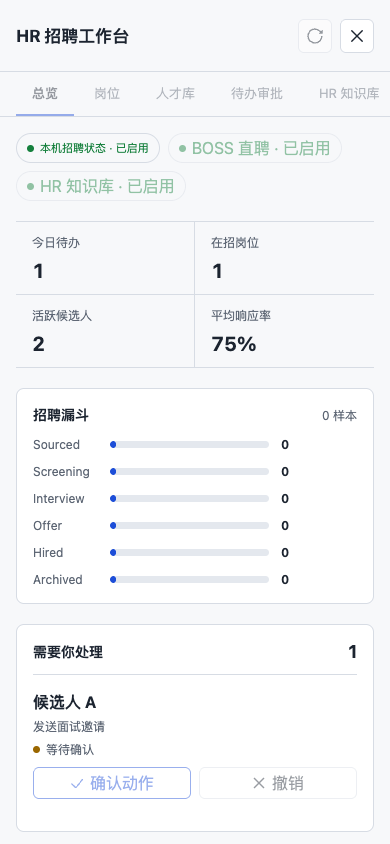
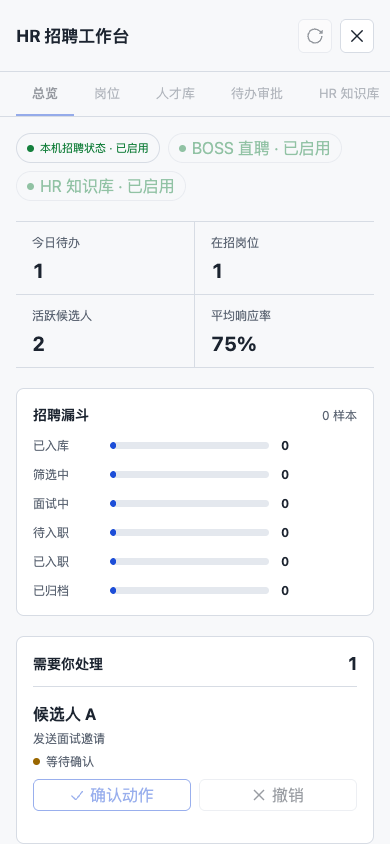
fix: 本地化招聘业务状态
将招聘阶段、岗位状态、用工类型和候选反馈统一映射为中英文用户文案，避免界面直接展示 API 枚举。更新移动端招聘证据截图。

diff --git a/.ci/dsh-yootun-recruiter/lib/client.js b/.ci/dsh-yootun-recruiter/lib/client.js
@@ -22,7 +22,8 @@ window.__ModuleLoader__.load({
         loginTitle: '使用官方页面扫码登录', loginBody: '在内置窗口中自行登录并操作官方页面；Yootun-Agent 不读取页面会话、登录凭证和二维码。', openBoss: '打开 BOSS 直聘', openInApp: '在内置浏览器打开', openExternal: '在系统浏览器打开', webUseHint: '登录与操作都在官方页面完成；招聘数据通过 Agent 对话沉淀，不会自动抓取页面。', syncNow: '开始同步', syncHint: '同步岗位、候选人阶段与面试记录；敏感信息不会进入知识库。', lastSync: '最近同步', syncRecords: '同步记录', syncWaiting: '等待用户完成官方登录',
         knowledgeTitle: '企业 HR 知识空间', knowledgeBody: '每个企业统一沉淀岗位画像、面试反馈、招聘复盘和流程规范，不需要单独配置空间。', knowledgeSpaces: '企业 HR 空间', knowledgeDocs: '文档', knowledgeMemories: '经验记忆', knowledgePending: '待确认沉淀', knowledgeAction: '沉淀到 HR 知识空间', knowledgeOpen: '打开企业知识',
         emptyActions: '暂无待确认动作', approve: '确认动作', execute: '执行动作', dismiss: '撤销', status: '状态', waiting: '等待确认', confirmed: '已确认，等待适配器', succeeded: '适配器已完成', failed: '适配器失败', requiresLogin: '需要重新登录', dismissed: '已撤销', saveHint: '岗位与候选人分析通过 Agent 对话接口保存。',
-        stage: '阶段', evidence: '岗位相关证据', concerns: '待核实问题', score: '匹配度', days: '天',
+        stage: '阶段', stageSourced: '已入库', stageScreening: '筛选中', stageInterview: '面试中', stageOffer: '待入职', stageHired: '已入职', stageArchived: '已归档', evidence: '岗位相关证据', concerns: '待核实问题', score: '匹配度', days: '天',
+        roleDraft: '草稿', roleActive: '招聘中', rolePaused: '已暂停', roleClosed: '已关闭', employmentFullTime: '全职', employmentPartTime: '兼职', employmentContract: '合同制', employmentIntern: '实习', feedbackNone: '暂无反馈', feedbackPending: '待反馈', feedbackCompleted: '已反馈', unknown: '未知',
         srcLocal: '本机招聘状态', srcBoss: 'BOSS 直聘', srcKnowledge: 'HR 知识库', bossConnected: 'BOSS 直聘已连接',
         avgScreening: '平均筛选时长', offerConversion: 'Offer 转化', insightFallback: '样本不足时不输出确定性结论。', stale: '天无更新',
         preview: '预览同步范围', previewTitle: '同步预览', previewReady: '官方适配器可用，确认后即可同步', previewUnavailable: '官方适配器未配置，暂不能同步', previewFields: '同步字段', previewIncremental: '增量同步', previewFirst: '首次全量同步', conflictsKept: '本地已确认记录保留',
@@ -36,7 +37,8 @@ window.__ModuleLoader__.load({
         loginTitle: 'Scan on the official login page', loginBody: 'Log in and operate the official pages inside the built-in window; Yootun-Agent never reads the page session, credentials, or QR code.', openBoss: 'Open BOSS Zhipin', openInApp: 'Open in app browser', openExternal: 'Open in system browser', webUseHint: 'Login and actions happen on the official pages; recruiting data is captured through Agent conversations, never by scraping.', syncNow: 'Start sync', syncHint: 'Sync roles, candidate stages, and interview notes. Sensitive data never enters the knowledge base.', lastSync: 'Last sync', syncRecords: 'Sync records', syncWaiting: 'Complete login on the official page',
         knowledgeTitle: 'Enterprise HR knowledge space', knowledgeBody: 'Each enterprise gets one managed space for role profiles, interview feedback, hiring retrospectives, and process playbooks.', knowledgeSpaces: 'Enterprise HR space', knowledgeDocs: 'Documents', knowledgeMemories: 'Memories', knowledgePending: 'Pending curation', knowledgeAction: 'Save to HR space', knowledgeOpen: 'Open enterprise knowledge',
         emptyActions: 'No actions awaiting approval', approve: 'Approve action', execute: 'Execute action', dismiss: 'Dismiss', status: 'Status', waiting: 'Awaiting approval', confirmed: 'Approved, adapter pending', succeeded: 'Adapter completed', failed: 'Adapter failed', requiresLogin: 'Login required', dismissed: 'Dismissed', saveHint: 'Save roles and candidate analysis through the Agent conversation interface.',
-        stage: 'Stage', evidence: 'Role-related evidence', concerns: 'Open questions', score: 'Match score', days: 'days',
+        stage: 'Stage', stageSourced: 'Sourced', stageScreening: 'Screening', stageInterview: 'Interview', stageOffer: 'Offer', stageHired: 'Hired', stageArchived: 'Archived', evidence: 'Role-related evidence', concerns: 'Open questions', score: 'Match score', days: 'days',
+        roleDraft: 'Draft', roleActive: 'Active', rolePaused: 'Paused', roleClosed: 'Closed', employmentFullTime: 'Full-time', employmentPartTime: 'Part-time', employmentContract: 'Contract', employmentIntern: 'Internship', feedbackNone: 'No feedback', feedbackPending: 'Feedback pending', feedbackCompleted: 'Feedback received', unknown: 'Unknown',
         srcLocal: 'Local recruiting state', srcBoss: 'BOSS Zhipin', srcKnowledge: 'HR knowledge', bossConnected: 'BOSS Zhipin connected',
         avgScreening: 'Avg. screening days', offerConversion: 'Offer conversion', insightFallback: 'No firm conclusion until the sample is sufficient.', stale: 'days without updates',
         preview: 'Preview sync scope', previewTitle: 'Sync preview', previewReady: 'Official adapter ready; confirm to sync', previewUnavailable: 'Official adapter not configured; sync unavailable', previewFields: 'Synced fields', previewIncremental: 'Incremental sync', previewFirst: 'First full sync', conflictsKept: 'locally confirmed kept',
@@ -59,6 +61,12 @@ window.__ModuleLoader__.load({
     function list(value) { return Array.isArray(value) ? value.filter(item => typeof item === 'string').slice(0, 8) : [] }
     function sourceState(value) { return ['ready', 'empty', 'unavailable', 'error'].includes(value) ? value : 'unavailable' }
     function statusText(status, t) { return status === 'awaiting_confirmation' ? t('waiting') : status === 'confirmed_pending_adapter' ? t('confirmed') : status === 'succeeded' ? t('succeeded') : status === 'failed' ? t('failed') : status === 'requires_user_login' ? t('requiresLogin') : t('dismissed') }
+    function enumKey(value) { return String(value || '').trim().toLowerCase().replace(/[^a-z0-9]+/g, '_') }
+    function enumText(value, labels, t) { const key = labels[enumKey(value)]; return key ? t(key) : t('unknown') }
+    function stageText(value, t) { return enumText(value, { sourced: 'stageSourced', screening: 'stageScreening', interview: 'stageInterview', offer: 'stageOffer', hired: 'stageHired', archived: 'stageArchived' }, t) }
+    function roleStatusText(value, t) { return enumText(value, { draft: 'roleDraft', active: 'roleActive', paused: 'rolePaused', closed: 'roleClosed' }, t) }
+    function employmentText(value, t) { return enumText(value, { full_time: 'employmentFullTime', fulltime: 'employmentFullTime', part_time: 'employmentPartTime', parttime: 'employmentPartTime', contract: 'employmentContract', contractor: 'employmentContract', intern: 'employmentIntern', internship: 'employmentIntern' }, t) }
+    function feedbackText(value, t) { return enumText(value, { none: 'feedbackNone', pending: 'feedbackPending', awaiting_feedback: 'feedbackPending', completed: 'feedbackCompleted', received: 'feedbackCompleted' }, t) }
     function SourceBadge({ label, state, t, onClick, disabled }) {
       const status = sourceState(state)
       const labelText = status === 'ready' ? t('ready') : status === 'empty' ? t('empty') : status === 'error' ? t('error') : t('unavailable')
@@ -80,7 +88,7 @@ window.__ModuleLoader__.load({
         ),
         h('div', { className: 'yr-funnel' }, rows.map((item, index) =>
           h('div', { className: 'yr-funnel-row', key: item.stage },
-            h('span', null, item.stage),
+            h('span', null, stageText(item.stage, t)),
             h('div', { className: 'yr-bar-track' }, h('span', { className: 'yr-bar', style: { width: `${Math.max(4, number(item.count) / max * 100)}%` } })),
             h('strong', null, String(number(item.count))),
             index > 0 && number(rows[index - 1].count) > 0 ? h('small', null, `${Math.round(number(item.count) / number(rows[index - 1].count) * 100)}%`) : null,
@@ -119,7 +127,7 @@ window.__ModuleLoader__.load({
         h('div', { className: 'yr-dashboard-grid' },
           h('section', { className: 'yr-panel' },
             h('div', { className: 'yr-panel-title' }, h('h2', null, t('roleHealth')), h('span', { className: 'yr-muted' }, String(roles.length))),
-            roles.length ? roles.map(role => { const days = staleDays(role); const stale = days !== null && days >= 14; return h('div', { className: 'yr-health-row', key: role.id }, h('div', null, h('strong', null, role.title), h('span', null, `${role.department} · ${role.location}`)), h('span', { className: stale ? 'yr-health-warn' : 'yr-health-good' }, stale ? `${days} ${t('stale')}` : role.status)) }) : h('div', { className: 'yr-empty yr-empty-compact', role: 'status' }, t('noData')),
+            roles.length ? roles.map(role => { const days = staleDays(role); const stale = days !== null && days >= 14; return h('div', { className: 'yr-health-row', key: role.id }, h('div', null, h('strong', null, role.title), h('span', null, `${role.department} · ${role.location}`)), h('span', { className: stale ? 'yr-health-warn' : 'yr-health-good' }, stale ? `${days} ${t('stale')}` : roleStatusText(role.status, t))) }) : h('div', { className: 'yr-empty yr-empty-compact', role: 'status' }, t('noData')),
           ),
           h('section', { className: 'yr-panel yr-knowledge-teaser' },
             h('div', { className: 'yr-panel-title' }, h('h2', null, t('knowledgeTitle')), h(SourceBadge, { label: 'HR', state: knowledge.status, t, disabled: busy, onClick: () => onNavigate?.('knowledge') })),
@@ -165,7 +173,7 @@ window.__ModuleLoader__.load({
             h('div', { className: 'yr-intake-editor' }, h('label', { htmlFor: 'yr-role-brief' }, t('pasteRequirement')), h('textarea', { id: 'yr-role-brief', className: 'yr-intake-textarea', value: input, disabled: busy, onChange: event => setInput(event.target.value), placeholder: t('addRole') }), h('div', { className: 'yr-intake-footer' }, h('span', { className: 'yr-muted' }, message), h('button', { type: 'button', className: 'yr-primary', disabled: busy, onClick: () => void generate() }, h(IconDataOutline16, { size: 14 }), t('generateDraft')))),
           ),
         ),
-        roles.length ? h('div', { className: 'yr-list' }, roles.map(role => h('article', { className: 'yr-card', key: role.id }, h('div', { className: 'yr-card-head' }, h('div', null, h('strong', null, role.title), h('span', { className: 'yr-muted' }, `${role.department} · ${role.location}`)), h('span', { className: `yr-pill yr-pill-${role.status}` }, role.status)), h('div', { className: 'yr-role-meta' }, h('span', null, `${role.headcount} HC`), h('span', null, role.employmentType), role.salaryMin || role.salaryMax ? h('span', null, `${role.salaryMin || '—'}-${role.salaryMax || '—'}`) : null), h('p', null, list(role.requiredSkills).join(' · ')), h('small', { className: 'yr-muted' }, `${t('updated')}: ${role.updatedAt || '—'}`)))) : h('section', { className: 'yr-empty yr-empty-main', role: 'status' }, h('div', { className: 'yr-empty-icon' }, h(IconDataOutline16, { size: 20 })), h('strong', null, t('noRolesCta')), h('span', null, t('editAfterGenerate'))),
+        roles.length ? h('div', { className: 'yr-list' }, roles.map(role => h('article', { className: 'yr-card', key: role.id }, h('div', { className: 'yr-card-head' }, h('div', null, h('strong', null, role.title), h('span', { className: 'yr-muted' }, `${role.department} · ${role.location}`)), h('span', { className: `yr-pill yr-pill-${role.status}` }, roleStatusText(role.status, t))), h('div', { className: 'yr-role-meta' }, h('span', null, `${role.headcount} HC`), h('span', null, employmentText(role.employmentType, t)), role.salaryMin || role.salaryMax ? h('span', null, `${role.salaryMin || '—'}-${role.salaryMax || '—'}`) : null), h('p', null, list(role.requiredSkills).join(' · ')), h('small', { className: 'yr-muted' }, `${t('updated')}: ${role.updatedAt || '—'}`)))) : h('section', { className: 'yr-empty yr-empty-main', role: 'status' }, h('div', { className: 'yr-empty-icon' }, h(IconDataOutline16, { size: 20 })), h('strong', null, t('noRolesCta')), h('span', null, t('editAfterGenerate'))),
       )
     }
     function Candidates({ data, t, onNavigate, busy }) {
@@ -176,9 +184,9 @@ window.__ModuleLoader__.load({
       const counts = STAGES.map(item => ({ stage: item, count: candidates.filter(candidate => candidate.stage === item).length })).filter(item => item.count > 0)
       return h('div', { className: 'yr-page' },
         h('div', { className: 'yr-heading yr-workbench-toolbar' }, h('div', null, h('h2', null, t('candidates')), h('p', { className: 'yr-subheading' }, t('evidence'))), h('button', { type: 'button', className: 'yr-secondary', disabled: busy, onClick: () => onNavigate?.('boss') }, h(IconRefreshOutline16, { size: 14 }), t('boss'))),
-        h('div', { className: 'yr-pipeline-summary' }, counts.length ? counts.map(item => h('div', { className: 'yr-summary-item', key: item.stage }, h('span', { className: 'yr-summary-label' }, item.stage), h('strong', { className: 'yr-summary-value' }, String(item.count)))) : h('div', { className: 'yr-summary-item' }, h('span', { className: 'yr-summary-label' }, t('candidates')), h('strong', { className: 'yr-summary-value' }, '0'))),
-        h('div', { className: 'yr-filter-bar' }, h('input', { className: 'yr-filter', value: query, disabled: busy, onChange: event => setQuery(event.target.value), placeholder: t('candidates'), 'aria-label': t('candidates') }), h('select', { className: 'yr-filter', value: stage, disabled: busy, onChange: event => setStage(event.target.value), 'aria-label': t('stage') }, h('option', { value: 'all' }, t('stage')), STAGES.map(item => h('option', { value: item, key: item }, item)))),
-        filtered.length ? h('div', { className: 'yr-pipeline' }, STAGES.filter(item => filtered.some(candidate => candidate.stage === item)).map(item => h('section', { className: 'yr-stage', key: item }, h('div', { className: 'yr-stage-title' }, h('strong', null, item), h('span', null, String(filtered.filter(candidate => candidate.stage === item).length))), filtered.filter(candidate => candidate.stage === item).map(candidate => h('article', { className: 'yr-card yr-candidate', key: candidate.id }, h('div', { className: 'yr-card-head' }, h('strong', null, candidate.displayName), candidate.matchScore === undefined ? null : h('span', { className: 'yr-score' }, `${candidate.matchScore}`)), h('p', null, list(candidate.evidence).join(' · ') || t('empty')), h('p', { className: 'yr-muted' }, `${t('concerns')}: ${list(candidate.concerns).join(' · ') || '—'}`), h('small', { className: 'yr-muted' }, `${t('status')}: ${candidate.feedbackStatus || 'none'}`)))))) : h('section', { className: 'yr-empty yr-empty-main', role: 'status' }, h('div', { className: 'yr-empty-icon' }, h(IconUserOutline16, { size: 20 })), h('strong', null, t('noData')), h('span', null, t('syncHint')), h('button', { type: 'button', className: 'yr-primary yr-empty-action', disabled: busy, onClick: () => onNavigate?.('boss') }, h(IconLinkOutline16, { size: 14 }), t('boss'))),
+        h('div', { className: 'yr-pipeline-summary' }, counts.length ? counts.map(item => h('div', { className: 'yr-summary-item', key: item.stage }, h('span', { className: 'yr-summary-label' }, stageText(item.stage, t)), h('strong', { className: 'yr-summary-value' }, String(item.count)))) : h('div', { className: 'yr-summary-item' }, h('span', { className: 'yr-summary-label' }, t('candidates')), h('strong', { className: 'yr-summary-value' }, '0'))),
+        h('div', { className: 'yr-filter-bar' }, h('input', { className: 'yr-filter', value: query, disabled: busy, onChange: event => setQuery(event.target.value), placeholder: t('candidates'), 'aria-label': t('candidates') }), h('select', { className: 'yr-filter', value: stage, disabled: busy, onChange: event => setStage(event.target.value), 'aria-label': t('stage') }, h('option', { value: 'all' }, t('stage')), STAGES.map(item => h('option', { value: item, key: item }, stageText(item, t))))),
+        filtered.length ? h('div', { className: 'yr-pipeline' }, STAGES.filter(item => filtered.some(candidate => candidate.stage === item)).map(item => h('section', { className: 'yr-stage', key: item }, h('div', { className: 'yr-stage-title' }, h('strong', null, stageText(item, t)), h('span', null, String(filtered.filter(candidate => candidate.stage === item).length))), filtered.filter(candidate => candidate.stage === item).map(candidate => h('article', { className: 'yr-card yr-candidate', key: candidate.id }, h('div', { className: 'yr-card-head' }, h('strong', null, candidate.displayName), candidate.matchScore === undefined ? null : h('span', { className: 'yr-score' }, `${candidate.matchScore}`)), h('p', null, list(candidate.evidence).join(' · ') || t('empty')), h('p', { className: 'yr-muted' }, `${t('concerns')}: ${list(candidate.concerns).join(' · ') || '—'}`), h('small', { className: 'yr-muted' }, `${t('status')}: ${feedbackText(candidate.feedbackStatus || 'none', t)}`)))))) : h('section', { className: 'yr-empty yr-empty-main', role: 'status' }, h('div', { className: 'yr-empty-icon' }, h(IconUserOutline16, { size: 20 })), h('strong', null, t('noData')), h('span', null, t('syncHint')), h('button', { type: 'button', className: 'yr-primary yr-empty-action', disabled: busy, onClick: () => onNavigate?.('boss') }, h(IconLinkOutline16, { size: 14 }), t('boss'))),
       )
     }
     function Actions({ data, t, onUpdate, busy }) { const actions = data.actions || []; return h('div', { className: 'yr-page' }, h('div', { className: 'yr-heading' }, h('div', null, h('h2', null, t('actions')), h('p', { className: 'yr-subheading' }, t('pendingConfirmation'))), h('span', { className: 'yr-muted' }, String(actions.length))), actions.length ? h('div', { className: 'yr-list' }, actions.map(item => h(ActionRow, { key: item.id, item, t, onUpdate, busy }))) : h('div', { className: 'yr-empty', role: 'status' }, t('emptyActions'))) }

diff --git a/.ci/dsh-yootun-recruiter/src/client.js b/.ci/dsh-yootun-recruiter/src/client.js
@@ -17,7 +17,8 @@ const copy = {
     loginTitle: '使用官方页面扫码登录', loginBody: '在内置窗口中自行登录并操作官方页面；Yootun-Agent 不读取页面会话、登录凭证和二维码。', openBoss: '打开 BOSS 直聘', openInApp: '在内置浏览器打开', openExternal: '在系统浏览器打开', webUseHint: '登录与操作都在官方页面完成；招聘数据通过 Agent 对话沉淀，不会自动抓取页面。', syncNow: '开始同步', syncHint: '同步岗位、候选人阶段与面试记录；敏感信息不会进入知识库。', lastSync: '最近同步', syncRecords: '同步记录', syncWaiting: '等待用户完成官方登录',
     knowledgeTitle: '企业 HR 知识空间', knowledgeBody: '每个企业统一沉淀岗位画像、面试反馈、招聘复盘和流程规范，不需要单独配置空间。', knowledgeSpaces: '企业 HR 空间', knowledgeDocs: '文档', knowledgeMemories: '经验记忆', knowledgePending: '待确认沉淀', knowledgeAction: '沉淀到 HR 知识空间', knowledgeOpen: '打开企业知识',
     emptyActions: '暂无待确认动作', approve: '确认动作', execute: '执行动作', dismiss: '撤销', status: '状态', waiting: '等待确认', confirmed: '已确认，等待适配器', succeeded: '适配器已完成', failed: '适配器失败', requiresLogin: '需要重新登录', dismissed: '已撤销', saveHint: '岗位与候选人分析通过 Agent 对话接口保存。',
-    stage: '阶段', evidence: '岗位相关证据', concerns: '待核实问题', score: '匹配度', days: '天',
+    stage: '阶段', stageSourced: '已入库', stageScreening: '筛选中', stageInterview: '面试中', stageOffer: '待入职', stageHired: '已入职', stageArchived: '已归档', evidence: '岗位相关证据', concerns: '待核实问题', score: '匹配度', days: '天',
+    roleDraft: '草稿', roleActive: '招聘中', rolePaused: '已暂停', roleClosed: '已关闭', employmentFullTime: '全职', employmentPartTime: '兼职', employmentContract: '合同制', employmentIntern: '实习', feedbackNone: '暂无反馈', feedbackPending: '待反馈', feedbackCompleted: '已反馈', unknown: '未知',
     srcLocal: '本机招聘状态', srcBoss: 'BOSS 直聘', srcKnowledge: 'HR 知识库', bossConnected: 'BOSS 直聘已连接',
     avgScreening: '平均筛选时长', offerConversion: 'Offer 转化', insightFallback: '样本不足时不输出确定性结论。', stale: '天无更新',
     preview: '预览同步范围', previewTitle: '同步预览', previewReady: '官方适配器可用，确认后即可同步', previewUnavailable: '官方适配器未配置，暂不能同步', previewFields: '同步字段', previewIncremental: '增量同步', previewFirst: '首次全量同步', conflictsKept: '本地已确认记录保留',
@@ -31,7 +32,8 @@ const copy = {
     loginTitle: 'Scan on the official login page', loginBody: 'Log in and operate the official pages inside the built-in window; Yootun-Agent never reads the page session, credentials, or QR code.', openBoss: 'Open BOSS Zhipin', openInApp: 'Open in app browser', openExternal: 'Open in system browser', webUseHint: 'Login and actions happen on the official pages; recruiting data is captured through Agent conversations, never by scraping.', syncNow: 'Start sync', syncHint: 'Sync roles, candidate stages, and interview notes. Sensitive data never enters the knowledge base.', lastSync: 'Last sync', syncRecords: 'Sync records', syncWaiting: 'Complete login on the official page',
     knowledgeTitle: 'Enterprise HR knowledge space', knowledgeBody: 'Each enterprise gets one managed space for role profiles, interview feedback, hiring retrospectives, and process playbooks.', knowledgeSpaces: 'Enterprise HR space', knowledgeDocs: 'Documents', knowledgeMemories: 'Memories', knowledgePending: 'Pending curation', knowledgeAction: 'Save to HR space', knowledgeOpen: 'Open enterprise knowledge',
     emptyActions: 'No actions awaiting approval', approve: 'Approve action', execute: 'Execute action', dismiss: 'Dismiss', status: 'Status', waiting: 'Awaiting approval', confirmed: 'Approved, adapter pending', succeeded: 'Adapter completed', failed: 'Adapter failed', requiresLogin: 'Login required', dismissed: 'Dismissed', saveHint: 'Save roles and candidate analysis through the Agent conversation interface.',
-    stage: 'Stage', evidence: 'Role-related evidence', concerns: 'Open questions', score: 'Match score', days: 'days',
+    stage: 'Stage', stageSourced: 'Sourced', stageScreening: 'Screening', stageInterview: 'Interview', stageOffer: 'Offer', stageHired: 'Hired', stageArchived: 'Archived', evidence: 'Role-related evidence', concerns: 'Open questions', score: 'Match score', days: 'days',
+    roleDraft: 'Draft', roleActive: 'Active', rolePaused: 'Paused', roleClosed: 'Closed', employmentFullTime: 'Full-time', employmentPartTime: 'Part-time', employmentContract: 'Contract', employmentIntern: 'Internship', feedbackNone: 'No feedback', feedbackPending: 'Feedback pending', feedbackCompleted: 'Feedback received', unknown: 'Unknown',
     srcLocal: 'Local recruiting state', srcBoss: 'BOSS Zhipin', srcKnowledge: 'HR knowledge', bossConnected: 'BOSS Zhipin connected',
     avgScreening: 'Avg. screening days', offerConversion: 'Offer conversion', insightFallback: 'No firm conclusion until the sample is sufficient.', stale: 'days without updates',
     preview: 'Preview sync scope', previewTitle: 'Sync preview', previewReady: 'Official adapter ready; confirm to sync', previewUnavailable: 'Official adapter not configured; sync unavailable', previewFields: 'Synced fields', previewIncremental: 'Incremental sync', previewFirst: 'First full sync', conflictsKept: 'locally confirmed kept',
@@ -54,6 +56,12 @@ function number(value, fallback = 0) { return Number.isFinite(Number(value)) ? N
 function list(value) { return Array.isArray(value) ? value.filter(item => typeof item === 'string').slice(0, 8) : [] }
 function sourceState(value) { return ['ready', 'empty', 'unavailable', 'error'].includes(value) ? value : 'unavailable' }
 function statusText(status, t) { return status === 'awaiting_confirmation' ? t('waiting') : status === 'confirmed_pending_adapter' ? t('confirmed') : status === 'succeeded' ? t('succeeded') : status === 'failed' ? t('failed') : status === 'requires_user_login' ? t('requiresLogin') : t('dismissed') }
+function enumKey(value) { return String(value || '').trim().toLowerCase().replace(/[^a-z0-9]+/g, '_') }
+function enumText(value, labels, t) { const key = labels[enumKey(value)]; return key ? t(key) : t('unknown') }
+function stageText(value, t) { return enumText(value, { sourced: 'stageSourced', screening: 'stageScreening', interview: 'stageInterview', offer: 'stageOffer', hired: 'stageHired', archived: 'stageArchived' }, t) }
+function roleStatusText(value, t) { return enumText(value, { draft: 'roleDraft', active: 'roleActive', paused: 'rolePaused', closed: 'roleClosed' }, t) }
+function employmentText(value, t) { return enumText(value, { full_time: 'employmentFullTime', fulltime: 'employmentFullTime', part_time: 'employmentPartTime', parttime: 'employmentPartTime', contract: 'employmentContract', contractor: 'employmentContract', intern: 'employmentIntern', internship: 'employmentIntern' }, t) }
+function feedbackText(value, t) { return enumText(value, { none: 'feedbackNone', pending: 'feedbackPending', awaiting_feedback: 'feedbackPending', completed: 'feedbackCompleted', received: 'feedbackCompleted' }, t) }
 function SourceBadge({ label, state, t, onClick, disabled }) {
   const status = sourceState(state)
   const labelText = status === 'ready' ? t('ready') : status === 'empty' ? t('empty') : status === 'error' ? t('error') : t('unavailable')
@@ -75,7 +83,7 @@ function Funnel({ data, t }) {
     ),
     h('div', { className: 'yr-funnel' }, rows.map((item, index) =>
       h('div', { className: 'yr-funnel-row', key: item.stage },
-        h('span', null, item.stage),
+        h('span', null, stageText(item.stage, t)),
         h('div', { className: 'yr-bar-track' }, h('span', { className: 'yr-bar', style: { width: `${Math.max(4, number(item.count) / max * 100)}%` } })),
         h('strong', null, String(number(item.count))),
         index > 0 && number(rows[index - 1].count) > 0 ? h('small', null, `${Math.round(number(item.count) / number(rows[index - 1].count) * 100)}%`) : null,
@@ -114,7 +122,7 @@ function Overview({ data, t, onUpdate, onNavigate, busy }) {
     h('div', { className: 'yr-dashboard-grid' },
       h('section', { className: 'yr-panel' },
         h('div', { className: 'yr-panel-title' }, h('h2', null, t('roleHealth')), h('span', { className: 'yr-muted' }, String(roles.length))),
-        roles.length ? roles.map(role => { const days = staleDays(role); const stale = days !== null && days >= 14; return h('div', { className: 'yr-health-row', key: role.id }, h('div', null, h('strong', null, role.title), h('span', null, `${role.department} · ${role.location}`)), h('span', { className: stale ? 'yr-health-warn' : 'yr-health-good' }, stale ? `${days} ${t('stale')}` : role.status)) }) : h('div', { className: 'yr-empty yr-empty-compact', role: 'status' }, t('noData')),
+        roles.length ? roles.map(role => { const days = staleDays(role); const stale = days !== null && days >= 14; return h('div', { className: 'yr-health-row', key: role.id }, h('div', null, h('strong', null, role.title), h('span', null, `${role.department} · ${role.location}`)), h('span', { className: stale ? 'yr-health-warn' : 'yr-health-good' }, stale ? `${days} ${t('stale')}` : roleStatusText(role.status, t))) }) : h('div', { className: 'yr-empty yr-empty-compact', role: 'status' }, t('noData')),
       ),
       h('section', { className: 'yr-panel yr-knowledge-teaser' },
         h('div', { className: 'yr-panel-title' }, h('h2', null, t('knowledgeTitle')), h(SourceBadge, { label: 'HR', state: knowledge.status, t, disabled: busy, onClick: () => onNavigate?.('knowledge') })),
@@ -160,7 +168,7 @@ function Roles({ data, t, onUpdate, busy }) {
         h('div', { className: 'yr-intake-editor' }, h('label', { htmlFor: 'yr-role-brief' }, t('pasteRequirement')), h('textarea', { id: 'yr-role-brief', className: 'yr-intake-textarea', value: input, disabled: busy, onChange: event => setInput(event.target.value), placeholder: t('addRole') }), h('div', { className: 'yr-intake-footer' }, h('span', { className: 'yr-muted' }, message), h('button', { type: 'button', className: 'yr-primary', disabled: busy, onClick: () => void generate() }, h(IconDataOutline16, { size: 14 }), t('generateDraft')))),
       ),
     ),
-    roles.length ? h('div', { className: 'yr-list' }, roles.map(role => h('article', { className: 'yr-card', key: role.id }, h('div', { className: 'yr-card-head' }, h('div', null, h('strong', null, role.title), h('span', { className: 'yr-muted' }, `${role.department} · ${role.location}`)), h('span', { className: `yr-pill yr-pill-${role.status}` }, role.status)), h('div', { className: 'yr-role-meta' }, h('span', null, `${role.headcount} HC`), h('span', null, role.employmentType), role.salaryMin || role.salaryMax ? h('span', null, `${role.salaryMin || '—'}-${role.salaryMax || '—'}`) : null), h('p', null, list(role.requiredSkills).join(' · ')), h('small', { className: 'yr-muted' }, `${t('updated')}: ${role.updatedAt || '—'}`)))) : h('section', { className: 'yr-empty yr-empty-main', role: 'status' }, h('div', { className: 'yr-empty-icon' }, h(IconDataOutline16, { size: 20 })), h('strong', null, t('noRolesCta')), h('span', null, t('editAfterGenerate'))),
+    roles.length ? h('div', { className: 'yr-list' }, roles.map(role => h('article', { className: 'yr-card', key: role.id }, h('div', { className: 'yr-card-head' }, h('div', null, h('strong', null, role.title), h('span', { className: 'yr-muted' }, `${role.department} · ${role.location}`)), h('span', { className: `yr-pill yr-pill-${role.status}` }, roleStatusText(role.status, t))), h('div', { className: 'yr-role-meta' }, h('span', null, `${role.headcount} HC`), h('span', null, employmentText(role.employmentType, t)), role.salaryMin || role.salaryMax ? h('span', null, `${role.salaryMin || '—'}-${role.salaryMax || '—'}`) : null), h('p', null, list(role.requiredSkills).join(' · ')), h('small', { className: 'yr-muted' }, `${t('updated')}: ${role.updatedAt || '—'}`)))) : h('section', { className: 'yr-empty yr-empty-main', role: 'status' }, h('div', { className: 'yr-empty-icon' }, h(IconDataOutline16, { size: 20 })), h('strong', null, t('noRolesCta')), h('span', null, t('editAfterGenerate'))),
   )
 }
 function Candidates({ data, t, onNavigate, busy }) {
@@ -171,9 +179,9 @@ function Candidates({ data, t, onNavigate, busy }) {
   const counts = STAGES.map(item => ({ stage: item, count: candidates.filter(candidate => candidate.stage === item).length })).filter(item => item.count > 0)
   return h('div', { className: 'yr-page' },
     h('div', { className: 'yr-heading yr-workbench-toolbar' }, h('div', null, h('h2', null, t('candidates')), h('p', { className: 'yr-subheading' }, t('evidence'))), h('button', { type: 'button', className: 'yr-secondary', disabled: busy, onClick: () => onNavigate?.('boss') }, h(IconRefreshOutline16, { size: 14 }), t('boss'))),
-    h('div', { className: 'yr-pipeline-summary' }, counts.length ? counts.map(item => h('div', { className: 'yr-summary-item', key: item.stage }, h('span', { className: 'yr-summary-label' }, item.stage), h('strong', { className: 'yr-summary-value' }, String(item.count)))) : h('div', { className: 'yr-summary-item' }, h('span', { className: 'yr-summary-label' }, t('candidates')), h('strong', { className: 'yr-summary-value' }, '0'))),
-    h('div', { className: 'yr-filter-bar' }, h('input', { className: 'yr-filter', value: query, disabled: busy, onChange: event => setQuery(event.target.value), placeholder: t('candidates'), 'aria-label': t('candidates') }), h('select', { className: 'yr-filter', value: stage, disabled: busy, onChange: event => setStage(event.target.value), 'aria-label': t('stage') }, h('option', { value: 'all' }, t('stage')), STAGES.map(item => h('option', { value: item, key: item }, item)))),
-    filtered.length ? h('div', { className: 'yr-pipeline' }, STAGES.filter(item => filtered.some(candidate => candidate.stage === item)).map(item => h('section', { className: 'yr-stage', key: item }, h('div', { className: 'yr-stage-title' }, h('strong', null, item), h('span', null, String(filtered.filter(candidate => candidate.stage === item).length))), filtered.filter(candidate => candidate.stage === item).map(candidate => h('article', { className: 'yr-card yr-candidate', key: candidate.id }, h('div', { className: 'yr-card-head' }, h('strong', null, candidate.displayName), candidate.matchScore === undefined ? null : h('span', { className: 'yr-score' }, `${candidate.matchScore}`)), h('p', null, list(candidate.evidence).join(' · ') || t('empty')), h('p', { className: 'yr-muted' }, `${t('concerns')}: ${list(candidate.concerns).join(' · ') || '—'}`), h('small', { className: 'yr-muted' }, `${t('status')}: ${candidate.feedbackStatus || 'none'}`)))))) : h('section', { className: 'yr-empty yr-empty-main', role: 'status' }, h('div', { className: 'yr-empty-icon' }, h(IconUserOutline16, { size: 20 })), h('strong', null, t('noData')), h('span', null, t('syncHint')), h('button', { type: 'button', className: 'yr-primary yr-empty-action', disabled: busy, onClick: () => onNavigate?.('boss') }, h(IconLinkOutline16, { size: 14 }), t('boss'))),
+    h('div', { className: 'yr-pipeline-summary' }, counts.length ? counts.map(item => h('div', { className: 'yr-summary-item', key: item.stage }, h('span', { className: 'yr-summary-label' }, stageText(item.stage, t)), h('strong', { className: 'yr-summary-value' }, String(item.count)))) : h('div', { className: 'yr-summary-item' }, h('span', { className: 'yr-summary-label' }, t('candidates')), h('strong', { className: 'yr-summary-value' }, '0'))),
+    h('div', { className: 'yr-filter-bar' }, h('input', { className: 'yr-filter', value: query, disabled: busy, onChange: event => setQuery(event.target.value), placeholder: t('candidates'), 'aria-label': t('candidates') }), h('select', { className: 'yr-filter', value: stage, disabled: busy, onChange: event => setStage(event.target.value), 'aria-label': t('stage') }, h('option', { value: 'all' }, t('stage')), STAGES.map(item => h('option', { value: item, key: item }, stageText(item, t))))),
+    filtered.length ? h('div', { className: 'yr-pipeline' }, STAGES.filter(item => filtered.some(candidate => candidate.stage === item)).map(item => h('section', { className: 'yr-stage', key: item }, h('div', { className: 'yr-stage-title' }, h('strong', null, stageText(item, t)), h('span', null, String(filtered.filter(candidate => candidate.stage === item).length))), filtered.filter(candidate => candidate.stage === item).map(candidate => h('article', { className: 'yr-card yr-candidate', key: candidate.id }, h('div', { className: 'yr-card-head' }, h('strong', null, candidate.displayName), candidate.matchScore === undefined ? null : h('span', { className: 'yr-score' }, `${candidate.matchScore}`)), h('p', null, list(candidate.evidence).join(' · ') || t('empty')), h('p', { className: 'yr-muted' }, `${t('concerns')}: ${list(candidate.concerns).join(' · ') || '—'}`), h('small', { className: 'yr-muted' }, `${t('status')}: ${feedbackText(candidate.feedbackStatus || 'none', t)}`)))))) : h('section', { className: 'yr-empty yr-empty-main', role: 'status' }, h('div', { className: 'yr-empty-icon' }, h(IconUserOutline16, { size: 20 })), h('strong', null, t('noData')), h('span', null, t('syncHint')), h('button', { type: 'button', className: 'yr-primary yr-empty-action', disabled: busy, onClick: () => onNavigate?.('boss') }, h(IconLinkOutline16, { size: 14 }), t('boss'))),
   )
 }
 function Actions({ data, t, onUpdate, busy }) { const actions = data.actions || []; return h('div', { className: 'yr-page' }, h('div', { className: 'yr-heading' }, h('div', null, h('h2', null, t('actions')), h('p', { className: 'yr-subheading' }, t('pendingConfirmation'))), h('span', { className: 'yr-muted' }, String(actions.length))), actions.length ? h('div', { className: 'yr-list' }, actions.map(item => h(ActionRow, { key: item.id, item, t, onUpdate, busy }))) : h('div', { className: 'yr-empty', role: 'status' }, t('emptyActions'))) }
